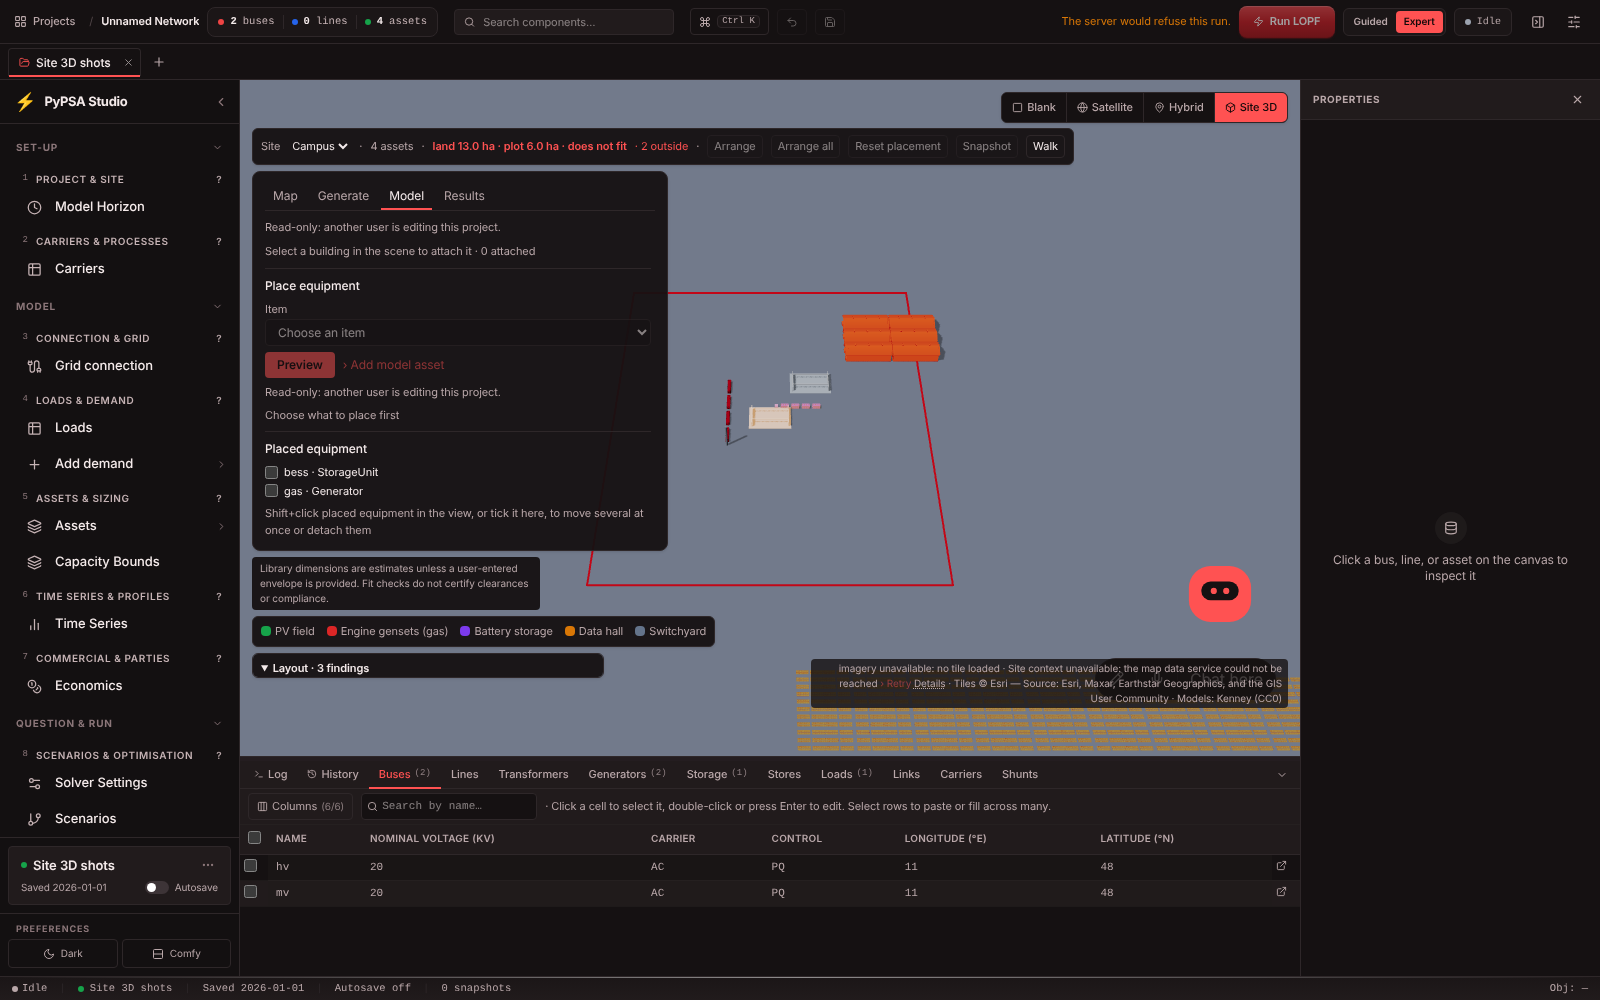
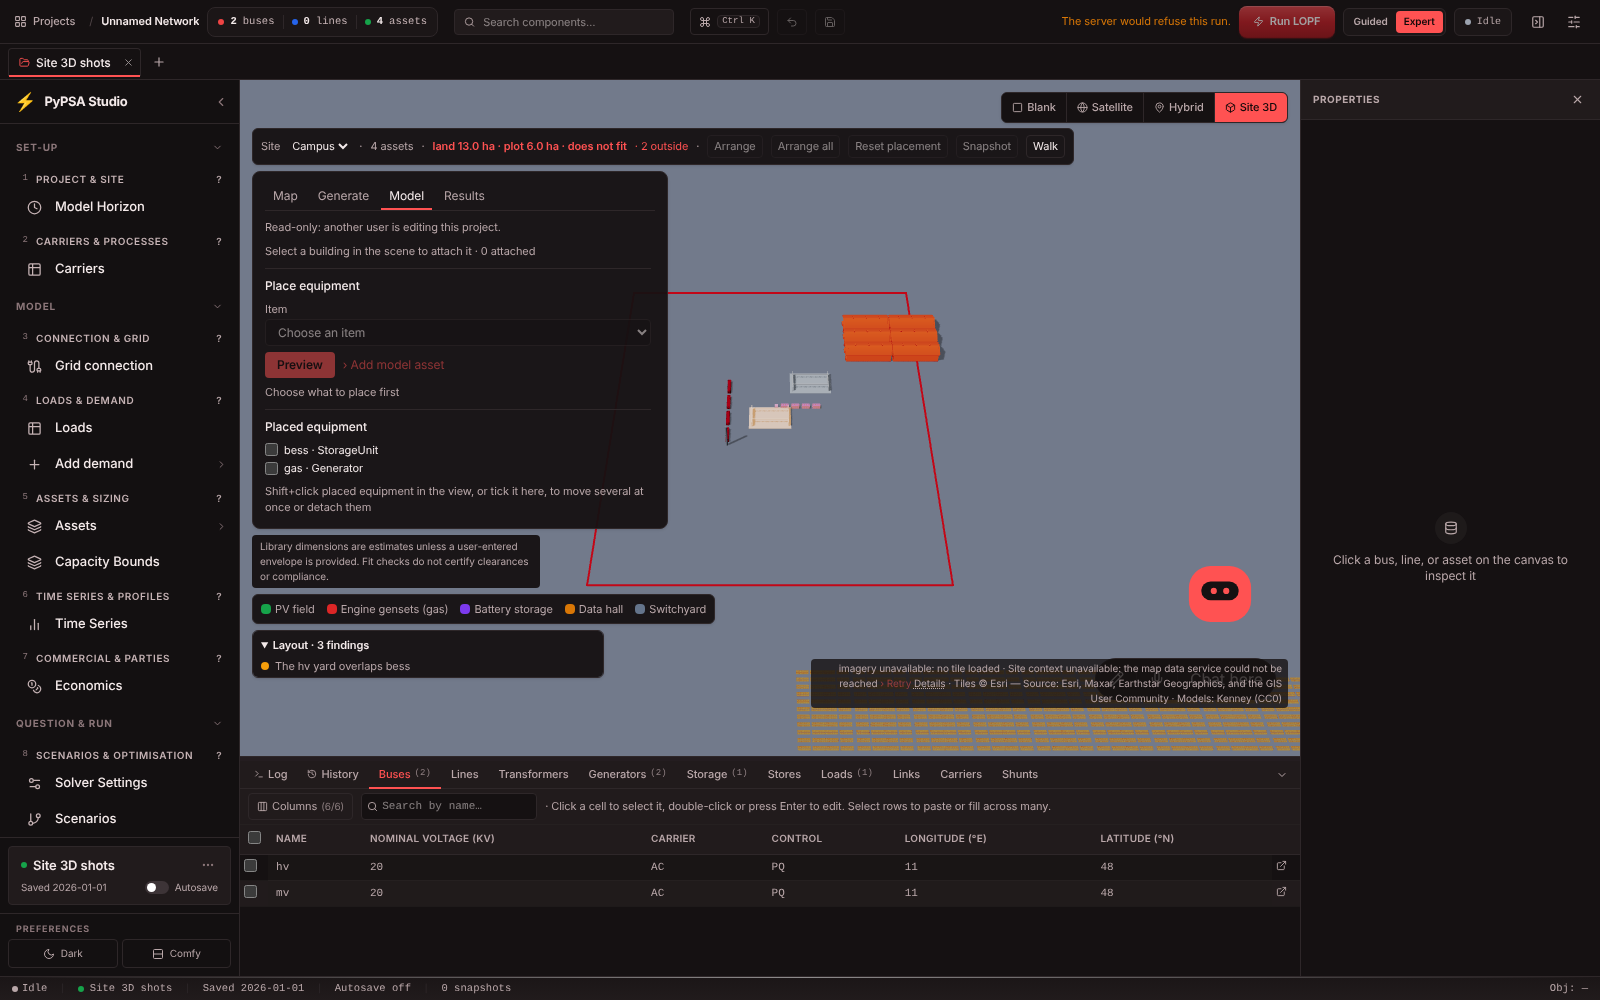
Site 3D: read-only reason once at the top of the Model tab
Claude-Session: https://claude.ai/code/session_01G7qCujS7HYreC9HpoYq1b2

Changed region(s): [[0.1562, 0.372, 0.4688, 0.682]]

diff --git a/pypsa-gui/frontend/src/site3d/AssociationPanel.tsx b/pypsa-gui/frontend/src/site3d/AssociationPanel.tsx
@@ -133,14 +133,17 @@ const centroid = (ring: readonly [number, number][]): [number, number] => {
   return [ring.reduce((s, p) => s + p[0], 0) / n, ring.reduce((s, p) => s + p[1], 0) / n]
 }
 
-export default function AssociationPanel({ site, scene, canWrite, blockedReason }: {
+export default function AssociationPanel({ site, scene, canWrite, blockedReason, reasonAbove = false }: {
   site: Site
   scene: Enabled
   canWrite: boolean
   /** Why writing is off (read-only, busy elsewhere), shown where a button is disabled. */
   blockedReason: string | null
+  /** The panel already shows `blockedReason` at the top of the tab: not repeated beside each disabled button. */
+  reasonAbove?: boolean
 }) {
   const project = useUIStore(s => s.currentProject)
+  const note = (r: string | null) => (reasonAbove && r === blockedReason ? null : r)
   const mode = useUIStore(s => s.uiMode) as UiMode
   const selection = useUIStore(s => s.sitePartSelection)
   const qc = useQueryClient()
@@ -397,7 +400,7 @@ export default function AssociationPanel({ site, scene, canWrite, blockedReason 
             <button type="button" data-testid="place-rebind-cancel" className={secondary}
               onClick={() => { setPlacementRebind(null); setRebindPick(null) }}>Cancel</button>
           </div>
-          {rebindReason && <span className="text-[11px] text-muted" data-testid="place-rebind-preview-reason">{rebindReason}</span>}
+          {note(rebindReason) && <span className="text-[11px] text-muted" data-testid="place-rebind-preview-reason">{rebindReason}</span>}
         </div>
       )}
 
@@ -405,7 +408,7 @@ export default function AssociationPanel({ site, scene, canWrite, blockedReason 
         <Review proposal={mine} mode={mode} buildings={buildings} groups={groups} itemName={itemName} sizeLine={sizeLine}
           shortName={key => componentOfKey(key).name}
           sized={key => !!sizeOf(key)} onApply={() => void apply()} onDiscard={() => void discard()}
-          canApply={writable} applyReason={!canWrite ? blockedReason : null} busy={busy} />
+          canApply={writable} applyReason={!canWrite ? note(blockedReason) : null} busy={busy} />
       ) : (
         <>
           {selected ? (
@@ -486,7 +489,7 @@ export default function AssociationPanel({ site, scene, canWrite, blockedReason 
                   <button type="button" data-testid="assoc-cancel" className={secondary} onClick={resetAttach}>Cancel</button>
                 )}
               </div>
-              {attachReason && <span className="text-[11px] text-muted" data-testid="assoc-preview-reason">{attachReason}</span>}
+              {note(attachReason) && <span className="text-[11px] text-muted" data-testid="assoc-preview-reason">{attachReason}</span>}
             </div>
           ) : (
             <span className="text-[11px] text-muted" data-testid="assoc-select-hint">
@@ -547,7 +550,7 @@ export default function AssociationPanel({ site, scene, canWrite, blockedReason 
               <button type="button" data-testid="add-asset-link" className={link} aria-expanded={mode === 'expert' ? addOpen : undefined}
                 disabled={!canWrite} title={!canWrite ? blockedReason ?? undefined : undefined} onClick={addAsset}>{mode === 'expert' ? '› Add model asset' : '› Add model asset in Expert'}</button>
             </div>
-            {!canWrite && blockedReason && placeReason !== blockedReason && <span className="text-[11px] text-muted" data-testid="add-asset-reason">{blockedReason}</span>}
+            {!canWrite && note(blockedReason) && placeReason !== blockedReason && <span className="text-[11px] text-muted" data-testid="add-asset-reason">{blockedReason}</span>}
             {mode === 'expert' && addOpen && (
               <label className="flex flex-col gap-0.5 text-[11px]">
                 <span className="text-muted">Kind to add</span>
@@ -558,11 +561,11 @@ export default function AssociationPanel({ site, scene, canWrite, blockedReason 
                 </select>
               </label>
             )}
-            {placeReason && <span className="text-[11px] text-muted" data-testid="place-preview-reason">{placeReason}</span>}
+            {note(placeReason) && <span className="text-[11px] text-muted" data-testid="place-preview-reason">{placeReason}</span>}
           </div>
 
           <PlacedEquipment siteId={site.id} placements={placements} itemName={itemName} writable={writable}
-            blockedReason={!canWrite ? blockedReason : null} onPreviewMove={(k, m) => void previewMove(k, m)}
+            blockedReason={!canWrite ? blockedReason : null} reasonAbove={reasonAbove} onPreviewMove={(k, m) => void previewMove(k, m)}
             onPreviewDetach={k => void previewDetach(k)} onUndo={() => void undoDetach()} />
         </>
       )}

diff --git a/pypsa-gui/frontend/src/site3d/PlacedEquipment.tsx b/pypsa-gui/frontend/src/site3d/PlacedEquipment.tsx
@@ -18,7 +18,7 @@ const PICK_HINT = 'Shift+click placed equipment in the view, or tick it here, to
 const NOTHING_TO_MOVE = 'Enter a distance or an angle first'
 const FIX_FIELDS = 'Fix the fields marked above first'
 
-export default function PlacedEquipment({ siteId, placements, itemName, writable, blockedReason, onPreviewMove, onPreviewDetach, onUndo }: {
+export default function PlacedEquipment({ siteId, placements, itemName, writable, blockedReason, reasonAbove = false, onPreviewMove, onPreviewDetach, onUndo }: {
   siteId: string
   placements: Readonly<Record<string, PlaceEntry>>
   /** The item's display name, as the Model panel names it (never the raw key). */
@@ -26,6 +26,8 @@ export default function PlacedEquipment({ siteId, placements, itemName, writable
   writable: boolean
   /** Why nothing can be written here (read-only, locked); null when it can. */
   blockedReason: string | null
+  /** The tab already shows `blockedReason` at its top: not repeated beside each disabled button. */
+  reasonAbove?: boolean
   onPreviewMove: (keys: string[], move: GroupMove) => void
   onPreviewDetach: (keys: string[]) => void
   onUndo: () => void
@@ -42,6 +44,7 @@ export default function PlacedEquipment({ siteId, placements, itemName, writable
   const group = n >= 2
   useEffect(() => { setMove(NO_MOVE) }, [group, siteId])
 
+  const note = (r: string | null) => (reasonAbove && r === blockedReason ? null : r)
   const moveReason = blockedReason ?? (!moveValid(move) ? FIX_FIELDS : isNoMove(move) ? NOTHING_TO_MOVE : null)
   const receipt = lastDetach?.siteId === siteId ? lastDetach : null
   if (keys.length === 0 && !receipt) return null
@@ -91,7 +94,7 @@ export default function PlacedEquipment({ siteId, placements, itemName, writable
             <button type="button" data-testid="group-preview" className={primary} disabled={!writable || !!moveReason}
               onClick={() => onPreviewMove(mine, move)}>Preview</button>
           </div>
-          {moveReason && <span className="text-[11px] text-muted" data-testid="group-preview-reason">{moveReason}</span>}
+          {note(moveReason) && <span className="text-[11px] text-muted" data-testid="group-preview-reason">{moveReason}</span>}
         </div>
       )}
 
@@ -101,7 +104,7 @@ export default function PlacedEquipment({ siteId, placements, itemName, writable
             <button type="button" data-testid="detach-preview" className={secondary} disabled={!writable || !!blockedReason}
               onClick={() => onPreviewDetach(mine)}>Detach from scene</button>
           </div>
-          {blockedReason && <span className="text-[11px] text-muted" data-testid="detach-preview-reason">{blockedReason}</span>}
+          {note(blockedReason) && <span className="text-[11px] text-muted" data-testid="detach-preview-reason">{blockedReason}</span>}
         </div>
       )}
 
@@ -112,7 +115,7 @@ export default function PlacedEquipment({ siteId, placements, itemName, writable
             <button type="button" data-testid="detach-undo" className={secondary}
               disabled={!writable || !!receipt.blocked || !!blockedReason} onClick={onUndo}>Undo</button>
           </div>
-          {(receipt.blocked ?? blockedReason) && (
+          {note(receipt.blocked ?? blockedReason) && (
             <span className="text-[11px] text-muted" data-testid="detach-undo-reason">{receipt.blocked ?? blockedReason}</span>
           )}
         </div>

diff --git a/pypsa-gui/frontend/src/site3d/SiteScenePanel.test.tsx b/pypsa-gui/frontend/src/site3d/SiteScenePanel.test.tsx
@@ -1,4 +1,5 @@
 import { QueryClient, QueryClientProvider } from '@tanstack/react-query'
+import { READ_ONLY_MUTATION_MESSAGE } from '../utils/mutationGuard'
 import { fireEvent, render, screen, waitFor } from '@testing-library/react'
 import { beforeEach, describe, expect, it, vi } from 'vitest'
 import type { BuildingInputs, Proposal, SceneBuilding, SiteScene } from '../api/siteScene'
@@ -214,6 +215,18 @@ describe('Site 3D scene panel', () => {
     fireEvent.click(screen.getByTestId('scene-refusal-generate'))
     expect(useUIStore.getState().sitePart).toBe('generate')
     expect(useSitesStore.getState().sceneRefusal.p).toBeUndefined()
+  })
+
+  it('read-only in Model: the reason shows once, and the buttons stay disabled', async () => {
+    vi.mocked(siteSceneApi.getScene).mockResolvedValue(enabled([osm]))
+    const flow = flowState.flow as { scene: { actions: { action: string }[] } }
+    flow.scene.actions = flow.scene.actions.map(a => (a.action === 'assign_native' ? available('assign_native') : a))
+    useUIStore.setState({ sitePart: 'model', readOnly: true, readOnlyReason: 'locked-by-user' })
+    view()
+    await screen.findByTestId('association-panel')
+    const text = document.body.textContent ?? ''
+    expect(text.split(READ_ONLY_MUTATION_MESSAGE).length - 1).toBe(1)
+    expect((screen.getByTestId('place-preview') as HTMLButtonElement).disabled).toBe(true)
   })
 
   it('read-only: the reason is visible and nothing can be generated', () => {

diff --git a/pypsa-gui/frontend/src/site3d/SiteScenePanel.tsx b/pypsa-gui/frontend/src/site3d/SiteScenePanel.tsx
@@ -333,7 +333,7 @@ export default function SiteScenePanel({ site, contextBuildings }: { site: Site;
       {part === 'model' && (
         <div className="flex flex-col gap-1" data-testid="site-part-model-body">
           {enabled && action('assign_native')?.available
-            ? <AssociationPanel key={site.id} site={site} scene={enabled} canWrite={canWrite} blockedReason={blocked ?? (busy ? 'Working: wait for the current step to finish' : null)} />
+            ? <AssociationPanel key={site.id} site={site} scene={enabled} canWrite={canWrite} reasonAbove={!!blocked} blockedReason={blocked ?? (busy ? 'Working: wait for the current step to finish' : null)} />
             : <Blocker action={action('assign_native')} />}
         </div>
       )}

diff --git a/.scratch/site-scene-generation/sc-02/record.md b/.scratch/site-scene-generation/sc-02/record.md
@@ -94,4 +94,4 @@ Route detail codes (under the existing `invalid_input` 422 and `revision_conflic
   - ~~`store.detach_record` repeats the chain walk of `_chain_receipt`~~ fixed: both read through one `store._chain` generator (the walk ends at a missing file, so a copy's history still stops at its pointed generation); `test_site_scene_detach.py` passes unchanged;
   - ~~the `_detached` key smuggled through the `changes` dict~~ fixed: `apply_detach` returns plain changes; `_commit_entry` builds the receipt's uids with `associations.detached_uids(n, keys, recorded)`, same values and no write (the detach tests pin the receipt);
   - Undo offer after a reload only while the detach is the latest change: **not changed, by design.** The offer is read from `scene.last_receipt` (head generation, no extra read). Finding an older detach would walk the whole chain on every scene GET, and offering Undo for a change that is no longer the latest would restore items under later edits (the server handles that as a delta, but the user has no cue which detach it is). A detach that is no longer the latest is undone by placing the items again. Test for the latest case: `PlacedEquipment.test.tsx` (receipt read back from `last_receipt`; a non-detach receipt offers nothing);
-  - ~~read-only line twice in the Model tab~~ fixed: with an item chosen in Place, the Place block showed the reason under Add model asset and again under Preview; the Add model asset line now shows only when Preview's reason differs (the link keeps the reason as its title). Test: `AssociationPanel.test.tsx` "read-only with an item chosen: the reason shows once". Shots: `site3d-shots.mjs` state `readonly`.
+  - ~~read-only line twice in the Model tab~~ fixed (UX NOT OK @d2b23245 caught that the first guard missed the no-item case): SiteScenePanel shows the read-only line once at the top of the tab and passes `reasonAbove`; AssociationPanel and PlacedEquipment skip any visible reason equal to `blockedReason` then (buttons stay disabled; a busy "Working" reason, not shown above, still shows). Tests: `SiteScenePanel.test.tsx` "read-only in Model: the reason shows once" (red without the prop), `AssociationPanel.test.tsx`. Shots (Guided and Expert, no item and an item chosen before the lock arrives, since the select is disabled under a lock): [evidence-followups/](evidence-followups/), `site3d-shots.mjs` states `readonly`, `readonly-item`.
